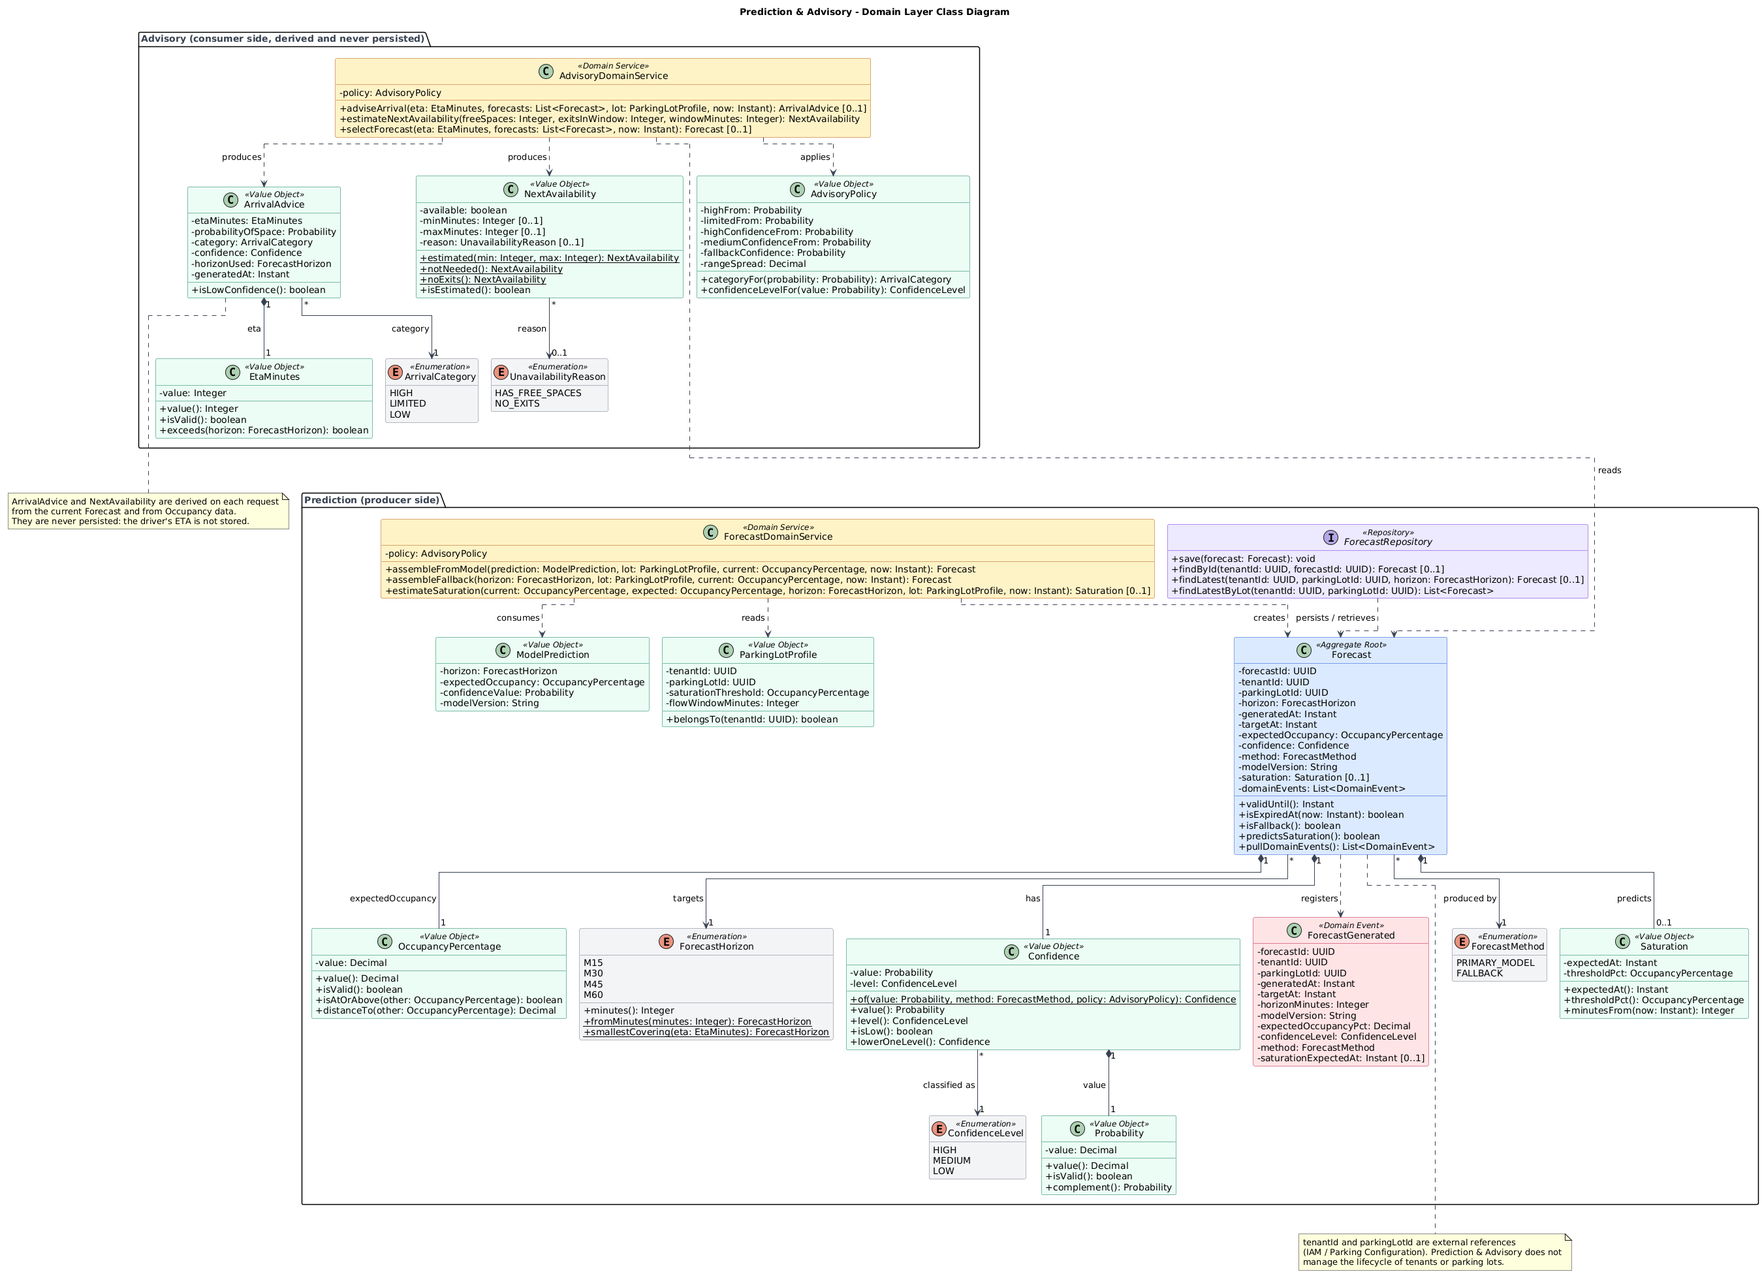
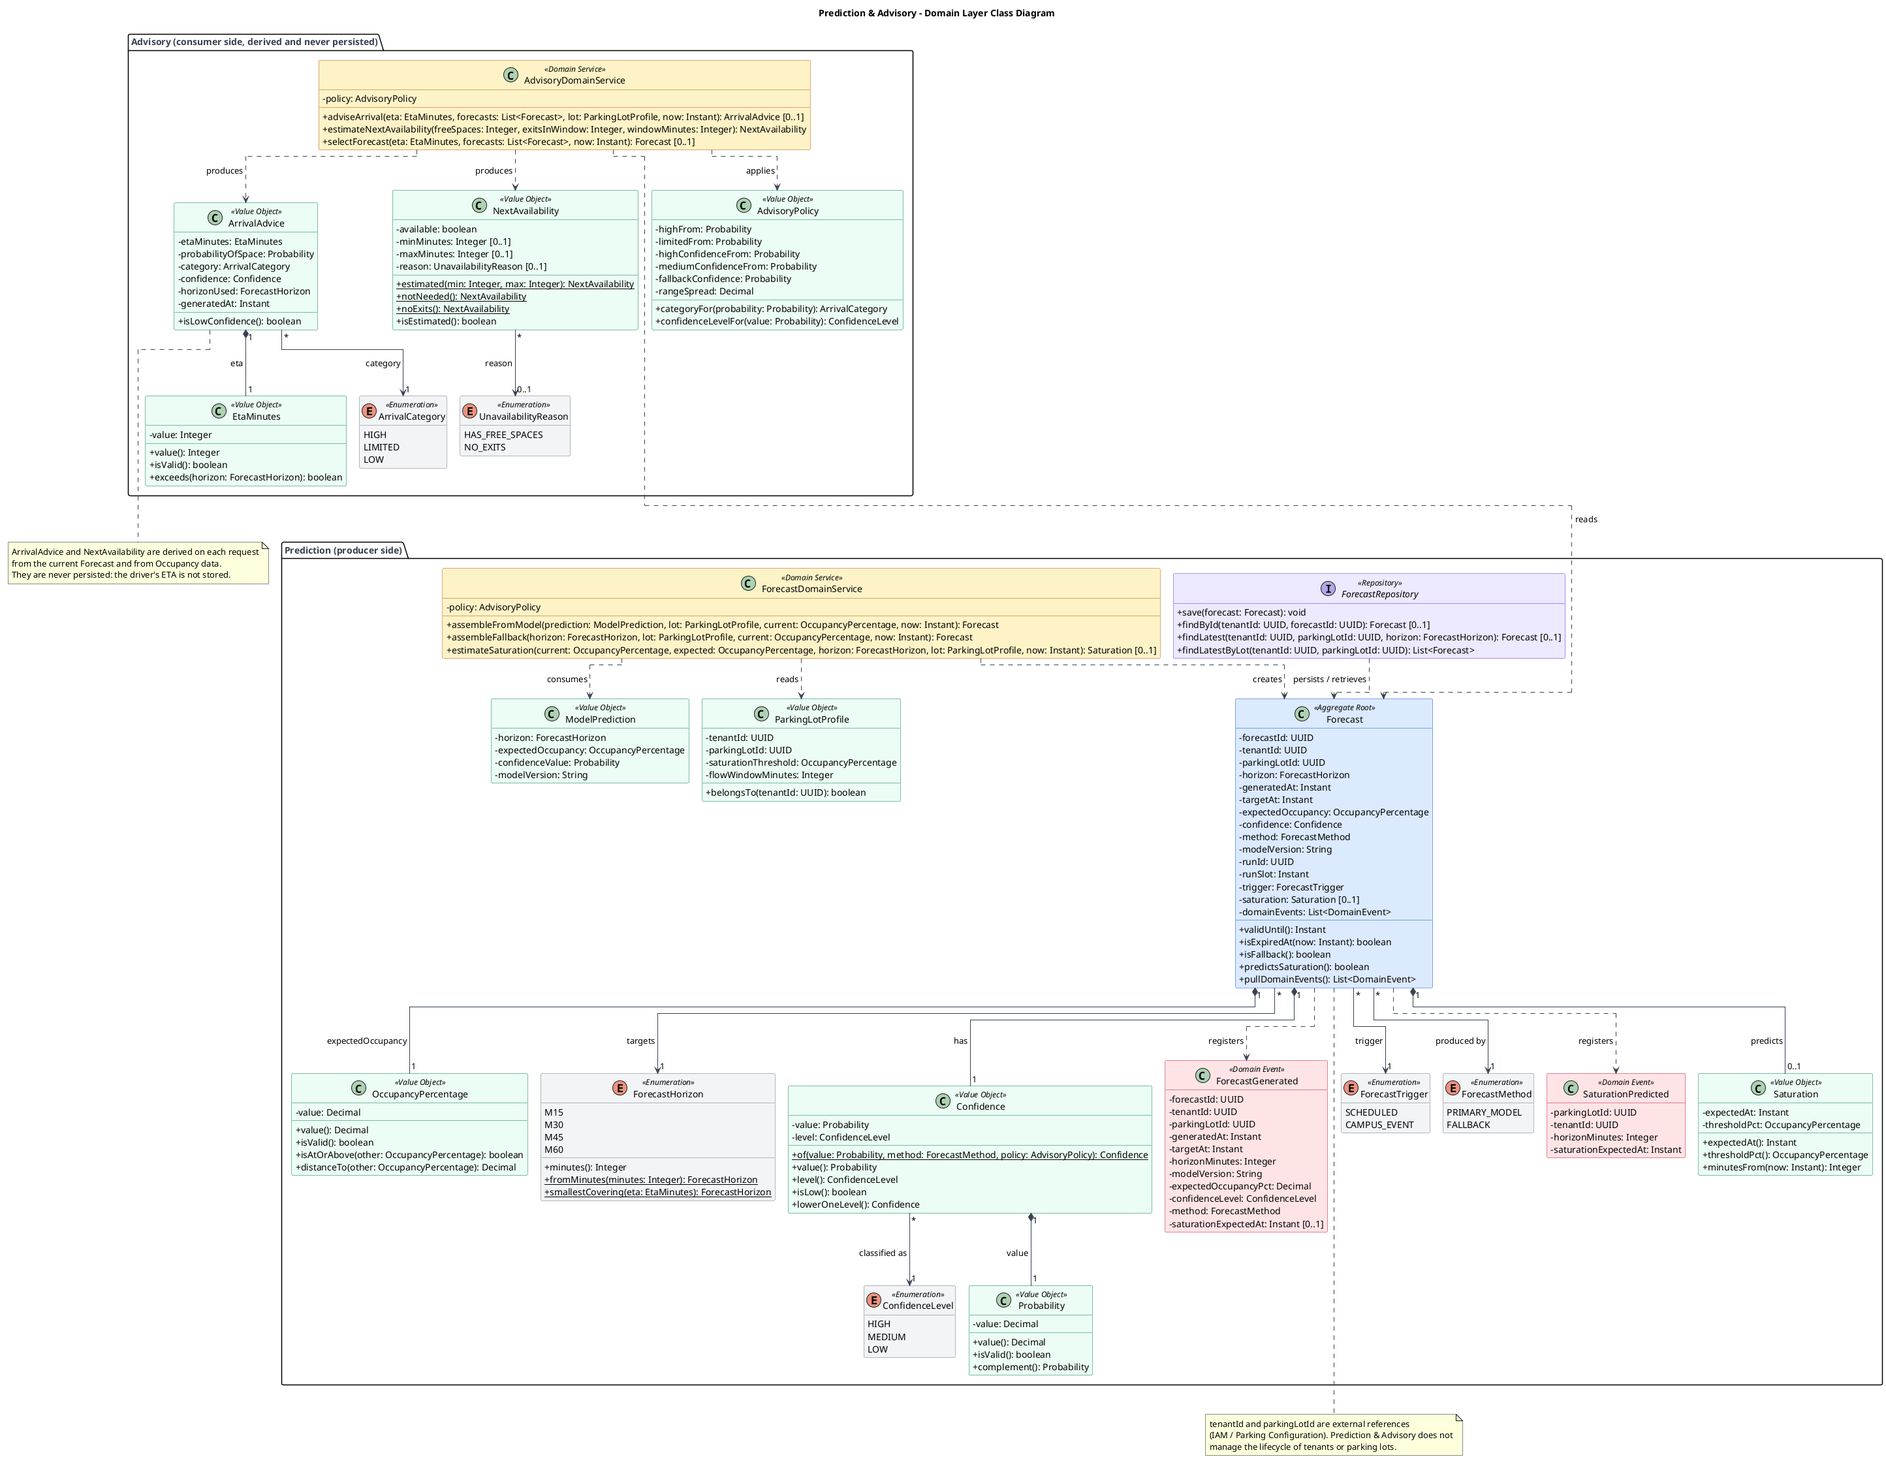
docs(chapter-05): embed the onnx model and define forecast runs

Changed region(s): [[0.0, 0.0, 1.0, 1.0], [0.9026, 0.375, 0.9337, 0.4062], [0.498, 0.6875, 0.5291, 0.7188]]

diff --git a/README.md b/README.md
@@ -5234,7 +5234,7 @@ Respuesta de `GET /api/v1/parking-lots/{lotId}/occupancy`:
 |currentOccupancy(parkingLotId: UUID)|OccupancySnapshotView?|Prediction & Advisory|Disponibilidad y porcentaje de ocupación actuales; vacío si no hay un dato consolidado vigente.|
 |freeSpaces(parkingLotId: UUID)|Integer|Prediction & Advisory|Espacios libres; los desconocidos no cuentan.|
 |exitsInWindow(parkingLotId: UUID, windowMinutes: Integer)|Integer|Prediction & Advisory|Salidas registradas en la ventana.|
-|recentSnapshots(parkingLotId: UUID, from: Instant, to: Instant)|`List<OccupancySnapshotView>`|Prediction & Advisory|Historial por minuto del intervalo (hasta 7 días).|
+|recentSnapshots(parkingLotId: UUID, from: Instant, to: Instant)|`List<OccupancySnapshotView>`|Prediction & Advisory|Historial por minuto del intervalo (hasta 8 semanas), del que sale la heurística de respaldo.|
 |availabilityOf(tenantId: UUID, parkingLotId: UUID)|OccupancyView|Módulo de composición|Disponibilidad por zona para la pantalla de inicio y la consola (TS02, TS17).|
 
 **Event Consumers**
@@ -5328,7 +5328,7 @@ La Infrastructure Layer implementa la persistencia, el read model, la difusión 
 |-|-|-|-|-|
 |SpaceOccupancyRepositoryAdapter, LotOccupancyRepositoryAdapter|Repository (implementación)|SpaceOccupancyRepository, LotOccupancyRepository|Spring Data JPA, PostgreSQL|Persisten los agregados con bloqueo optimista (`version`). `countByZone` es una consulta agrupada por zona y estado.|
 |JdbcVehiclePassageRepository|Repository (implementación)|VehiclePassageRepository|JDBC, PostgreSQL|`INSERT … ON CONFLICT DO NOTHING` sobre `vehicle_passages`; elimina los registros con más de 7 días.|
-|JdbcOccupancySnapshotRepository|Repository (implementación)|OccupancySnapshotRepository|JDBC, PostgreSQL|Guarda una foto por minuto; elimina las de más de 7 días.|
+|JdbcOccupancySnapshotRepository|Repository (implementación)|OccupancySnapshotRepository|JDBC, PostgreSQL|Guarda una foto por minuto; elimina las de más de 8 semanas, el período que usa la heurística de respaldo de Prediction & Advisory.|
 |RedisAvailabilityReadModel|Adapter (read model)|AvailabilityReadModel|Spring Data Redis, Redis Pub/Sub|Guarda la disponibilidad por estacionamiento y zona y el estado de los espacios. Publica cada cambio en un canal de Redis para que todas las réplicas lo entreguen a sus clientes conectados (QAS-04).|
 |StompRealtimeConfiguration|Configuración de mensajería|—|Spring WebSocket, STOMP|Expone el endpoint de suscripción y entrega a cada cliente los cambios recibidos del canal de Redis.|
 |ConfigurationLayoutReaderAdapter|Adapter (anti-corruption)|LayoutReader|Llamada en proceso a `ParkingConfigurationFacade`|Traduce el layout publicado al modelo de Occupancy.|
@@ -5340,7 +5340,7 @@ La Infrastructure Layer implementa la persistencia, el read model, la difusión 
 |-|-|
 |CQRS|Las escrituras actualizan PostgreSQL y luego el read model en Redis; las consultas de la aplicación y la consola leen Redis (DD-04). Si Redis no responde, la consulta se resuelve en PostgreSQL y se informa igual la antigüedad del dato (QAS-06).|
 |Frescura|La cadena detección confirmada, guardado, recálculo, Redis y notificación se hace en el mismo proceso, para cumplir 5 s o menos desde la confirmación hasta la aplicación y la consola (QAS-02).|
-|Propiedad de datos|Este contexto es el único que escribe en el esquema `occupancy` y en el read model. El historial de largo plazo pertenece a Analytics; aquí solo se conservan 7 días.|
+|Propiedad de datos|Este contexto es el único que escribe en el esquema `occupancy` y en el read model. El historial de largo plazo pertenece a Analytics; aquí solo se conservan las fotos por minuto de 8 semanas y los pasos de 7 días. Prediction & Advisory no consulta a Analytics, porque Analytics ya depende de sus eventos y la consulta crearía un ciclo entre módulos que Spring Modulith rechaza.|
 |Multi-tenancy|`tenant_id` se guarda en todas las tablas, y las claves de Redis incluyen la institución. Las consultas filtran por el tenant del token.|
 |Tecnología|Módulo del monolito modular en Java 25 y Spring Boot 4, con el esquema `occupancy` de PostgreSQL y Redis, según DD-01 y DD-04.|
 
@@ -5481,7 +5481,7 @@ La siguiente tabla resume las clases e interfaces principales requeridas por Pre
 | ForecastRepositoryAdapter | Infrastructure | Implementa la persistencia de pronósticos sobre la tabla `prediction.forecasts`. | Persistence dependency | save(), findById(), findLatest(), findLatestByLot() |
 | OccupancyReaderAdapter | Infrastructure | Capa anticorrupción que consulta la fachada de Occupancy. | Integration dependency | currentOccupancy(), freeSpaces(), exitsInWindow(), recentSnapshots() |
 | ParkingLotSettingsReaderAdapter | Infrastructure | Encapsula el acceso a la configuración del estacionamiento. | Integration dependency | profileOf(), activeLots(), calendarEventsAround() |
-| PredictionModelClient | Infrastructure | Encapsula la comunicación con el modelo de predicción. | Model dependency, timeout | predict() |
+| OnnxModelRunner | Infrastructure | Ejecuta en el proceso el modelo ONNX vigente y traduce su salida a `ModelPrediction`. | ONNX Runtime (Java) | predict() |
 | ForecastEventPublisherAdapter | Infrastructure | Encapsula el mecanismo técnico de publicación de `ForecastGenerated`. | Messaging dependency | publish() |
 
 
@@ -5511,6 +5511,9 @@ Attributes
 |confidence|Confidence|Private|Valor y nivel de confianza del pronóstico.|
 |method|ForecastMethod|Private|Indica si se generó con el modelo principal o con la heurística de respaldo.|
 |modelVersion|String|Private|Versión del modelo o identificador de la política de respaldo.|
+|runId|UUID|Private|Corrida de generación a la que pertenece; los cuatro horizontes de una corrida comparten el mismo valor.|
+|runSlot|Instant|Private|Inicio de la franja de 5 minutos de la corrida. Junto con el disparador, impide que dos réplicas generen dos veces la misma corrida programada.|
+|trigger|ForecastTrigger|Private|SCHEDULED si la generó el programador; CAMPUS_EVENT si la generó un cambio en el calendario.|
 |saturation|Saturation?|Private|Momento esperado de saturación, cuando el pronóstico lo anticipa.|
 |domainEvents|`List<DomainEvent>`|Private|Eventos de dominio pendientes de publicación.|
 
@@ -5768,6 +5771,7 @@ Los valores iniciales de `AdvisoryPolicy` se calibran con los datos del piloto (
 |-|-|-|-|
 |ForecastHorizon|Enumeration|M15, M30, M45, M60|Horizontes admitidos para un pronóstico.|
 |ForecastMethod|Enumeration|PRIMARY_MODEL, FALLBACK|Método con el que se generó un pronóstico.|
+|ForecastTrigger|Enumeration|SCHEDULED, CAMPUS_EVENT|Qué originó la corrida de generación.|
 |ConfidenceLevel|Enumeration|HIGH, MEDIUM, LOW|Nivel cualitativo de confianza.|
 |ArrivalCategory|Enumeration|HIGH, LIMITED, LOW|Categoría de la asesoría de llegada: HIGH (es probable encontrar espacio), LIMITED (la disponibilidad será limitada), LOW (es poco probable).|
 |UnavailabilityReason|Enumeration|HAS_FREE_SPACES, NO_EXITS|Motivo por el que no se entrega un rango: HAS_FREE_SPACES (hay espacios libres) o NO_EXITS (lleno y sin salidas recientes).|
@@ -5842,7 +5846,7 @@ Methods
 3. La ocupación esperada está entre 0 % y 100 %; el valor de confianza, entre 0 y 1.
 4. Todo pronóstico conserva su método y la versión del modelo, también cuando se generó con el respaldo.
 5. Un pronóstico FALLBACK tiene siempre nivel de confianza LOW.
-6. Si el modelo no está disponible, no responde a tiempo, omite un horizonte o no hay historial suficiente, se genera el pronóstico con el método FALLBACK, que asume que la ocupación esperada es la actual.
+6. Si no hay un modelo cargado, la inferencia falla, omite un horizonte o no hay historial suficiente, se genera el pronóstico con el método FALLBACK: la ocupación esperada es el promedio histórico del mismo día de la semana y la misma franja de 15 minutos en las últimas 8 semanas (DD-05). Si hay menos de dos semanas de historial para esa franja, se usa la ocupación actual. En ambos casos la confianza es LOW.
 7. Si no existe una lectura de ocupación utilizable, no se genera ningún pronóstico; el contexto no inventa un valor.
 8. Un pronóstico es vigente hasta su `targetAt` (`validUntil`). Uno vencido se devuelve marcado, junto con la hora del servidor, y no se usa para la asesoría.
 9. Un horizonte para el que nunca se generó un pronóstico se informa como faltante.
@@ -5955,15 +5959,15 @@ Methods
 
 |Nombre|Categoría|Descripción|
 |-|-|-|
-|ForecastScheduler|Scheduler|Dispara la generación periódica de pronósticos.|
+|ForecastScheduler|Scheduler|Dispara la generación de pronósticos cada 5 minutos.|
 
 Methods
 
 |Nombre|Tipo de retorno|Visibilidad|Descripción|
 |-|-|-|-|
-|generateForecasts()|Void|Public|Envía un `GenerateForecastsCommand` por estacionamiento activo.|
+|generateForecasts()|Void|Public|Envía un `GenerateForecastsCommand` por estacionamiento activo, con el inicio de la franja de 5 minutos como `runSlot` y el disparador SCHEDULED.|
 
-Cada estacionamiento se procesa de forma aislada: un fallo se registra y no detiene a los demás. Con varias instancias, la ejecución se protege con un bloqueo.
+Cada estacionamiento se procesa de forma aislada: un fallo se registra y no detiene a los demás. Con varias réplicas, la ejecución se protege con un bloqueo en la base de datos (ShedLock), y la restricción única por estacionamiento, horizonte y `runSlot` impide duplicar una corrida aunque el bloqueo falle.
 
 **Consumer 1: CampusEventListener**
 
@@ -5983,7 +5987,7 @@ Methods
 |Nombre|Categoría|Atributos|Descripción|
 |-|-|-|-|
 |ArrivalAdviceRequest|Request DTO|lotId, etaMinutes|Entrada de la asesoría; no admite otros campos.|
-|ForecastResponse|Response DTO|lotId, horizon, expectedOccupancyPct, confidence, method, generatedAt, validUntil, saturation, serverTime|Pronóstico entregado al cliente.|
+|ForecastResponse|Response DTO|lotId, horizon, expectedOccupancyPct, confidence, method, modelVersion, generatedAt, validUntil, saturation, serverTime|Pronóstico entregado al cliente.|
 |ArrivalAdviceResponse|Response DTO|etaMinutes, probabilityOfSpace, category, confidence, horizonUsed, generatedAt, serverTime|Asesoría entregada al cliente.|
 |NextAvailabilityResponse|Response DTO|available, minMinutes, maxMinutes, reason, serverTime|Próxima disponibilidad entregada al cliente.|
 
@@ -6042,8 +6046,8 @@ La Application Layer coordina los casos de uso de Prediction & Advisory: orquest
 
 1. Obtiene el `ParkingLotProfile` y la ocupación actual; sin lectura utilizable, termina sin generar pronósticos.
 2. Obtiene muestras recientes y eventos de calendario, y pide las predicciones de los cuatro horizontes a `PredictionModelPort`.
-3. `ForecastDomainService` construye un `Forecast` PRIMARY_MODEL por cada predicción válida y uno FALLBACK por cada horizonte sin predicción (modelo caído, tiempo agotado, historial insuficiente o respuesta incompleta).
-4. Persiste los pronósticos y, ya persistidos, publica `ForecastGenerated` y, si se prevé saturación, `SaturationPredicted`.
+3. `ForecastDomainService` construye un `Forecast` PRIMARY_MODEL por cada predicción válida y uno FALLBACK por cada horizonte sin predicción (modelo caído, tiempo agotado, historial insuficiente o un horizonte sin resultado). Todos los pronósticos de la corrida comparten su `runId`.
+4. Persiste los pronósticos y, en la misma transacción, registra en Spring Modulith `ForecastGenerated` y, si se prevé saturación, `SaturationPredicted`.
 
 `CampusEventChangedEventHandler`:
 
@@ -6084,7 +6088,7 @@ La Infrastructure Layer contiene las implementaciones técnicas que almacenan pr
 |ForecastRepositoryAdapter|Repository (implementación)|ForecastRepository|Spring Data JPA, PostgreSQL|Guarda y recupera pronósticos en la tabla `forecasts`.|
 |OccupancyReaderAdapter|Adapter (anti-corruption)|OccupancyReader|Llamada en proceso a la fachada de Occupancy|Lee los datos de ocupación.|
 |ParkingLotSettingsReaderAdapter|Adapter (anti-corruption)|ParkingLotSettingsReader|Llamada en proceso a la fachada de Parking Configuration (Open Host Service)|Lee la configuración del estacionamiento.|
-|PredictionModelClient|Adapter (cliente del modelo)|PredictionModelPort|Cliente HTTP, Resilience4j|Invoca al modelo y traduce su respuesta a `ModelPrediction`.|
+|OnnxModelRunner|Adapter (modelo embebido)|PredictionModelPort|ONNX Runtime para Java|Carga el archivo `model-vN.onnx` más reciente que publicó el entrenamiento, arma las variables de entrada en el orden que declara su metadato y traduce la salida a `ModelPrediction`. Si no hay modelo cargado o la inferencia falla, devuelve un resultado vacío y el handler aplica el respaldo. Cuando aparece una versión nueva, la carga sin reiniciar el backend.|
 |ForecastEventPublisherAdapter|Adapter (eventos)|ForecastEventPublisher|Eventos de aplicación de Spring, registro de publicación de Spring Modulith (outbox)|Publica `ForecastGenerated` y `SaturationPredicted` tras confirmar la transacción.|
 
 
@@ -6096,6 +6100,22 @@ La Infrastructure Layer contiene las implementaciones técnicas que almacenan pr
 |Persistencia|La asesoría y la próxima disponibilidad no se persisten: el servidor no conserva el ETA ni el trayecto del conductor.|
 |Multi-tenancy|`tenant_id` se almacena en `forecasts` como referencia lógica a IAM, sin clave foránea, y se toma siempre del usuario autenticado, nunca de un parámetro.|
 |Tecnología|Módulo del monolito modular en Java 25 y Spring Boot 4, con el esquema `prediction` de PostgreSQL, según DD-01. Domain y Application Layer no dependen de ella.|
+
+**Ciclo de vida del modelo**
+
+El modelo no es un servicio web: se entrena fuera del backend y se ejecuta dentro de él (DD-10).
+
+|Etapa|Decisión|
+|-|-|
+|Datos|Datos públicos reales de sensores por espacio de la ciudad de Melbourne, con varios años de llegadas y salidas, reproducidos por el simulador IoT sobre un campus simulado al que se agregan eventos del campus declarados como sintéticos. Con un piloto real, se usaría el historial del propio campus.|
+|Variables|Estacionamiento, horizonte, ocupación actual y de hace 15, 30 y 60 minutos, ingresos y salidas en la ventana de flujo, día de la semana, franja de 15 minutos, tipo de período académico, impacto del evento del campus y minutos hasta su inicio. Las variables categóricas se convierten en números, porque el conversor a ONNX no admite divisiones categóricas nativas.|
+|Entrenamiento|Un `HistGradientBoostingRegressor` de scikit-learn por horizonte, entrenado cada semana por un trabajo programado en Python.|
+|Validación|Validación temporal: se entrena con un año y se evalúa con el siguiente. El error absoluto medio (MAE) de cada horizonte se guarda con la versión.|
+|Confianza|El valor de confianza de cada horizonte es `1 − MAE / 25`, acotado entre 0 y 1; `AdvisoryPolicy` lo convierte en HIGH, MEDIUM o LOW.|
+|Publicación|El trabajo exporta el modelo con `skl2onnx` como `model-vN.onnx`, junto con un metadato que declara la versión, la fecha, el orden de las variables y el MAE por horizonte. `OnnxModelRunner` carga la versión más reciente sin reiniciar el backend.|
+|Respaldo|Sin modelo cargado o ante un error de inferencia, se aplica la regla 6 con confianza LOW.|
+
+Cuando una corrida termina, el backend publica en `/topic/parking-lots/{lotId}/forecasts` un aviso de que hay pronósticos nuevos. La app vuelve a pedir la asesoría de llegada con el último tiempo estimado, descontando los minutos transcurridos, sin volver a calcular la ruta.
 
 ### 5.5.6. Bounded Context Software Architecture Component Level Diagrams
 
@@ -6127,7 +6147,7 @@ El diagrama descompone el módulo Prediction & Advisory dentro del contenedor Qu
 | Forecast Repository Adapter | Infrastructure | Guarda y recupera pronósticos por institución. | Spring Data JPA | ForecastRepositoryAdapter |
 | Occupancy Reader Adapter | Infrastructure | Lee datos de Occupancy. | Adaptador Java (anti-corruption) | OccupancyReaderAdapter |
 | Parking Lot Settings Adapter | Infrastructure | Lee la configuración de Parking Configuration. | Adaptador Java (anti-corruption) | ParkingLotSettingsReaderAdapter |
-| Prediction Model Client | Infrastructure | Invoca al modelo con timeout y cortacircuitos. | Cliente HTTP, Resilience4j | PredictionModelClient |
+| ONNX Model Runner | Infrastructure | Ejecuta en el proceso el modelo ONNX vigente. | ONNX Runtime (Java) | OnnxModelRunner |
 | Forecast Event Publisher Adapter | Infrastructure | Publica `ForecastGenerated` y `SaturationPredicted` tras confirmar la transacción. | Eventos de aplicación de Spring | ForecastEventPublisherAdapter |
 
 Prediction & Advisory Component Level Diagram: **PredictionAdvisoryComponentLevelDiagram**
@@ -6172,6 +6192,9 @@ Prediction & Advisory es dueño de una sola tabla, `forecasts`, en el esquema `p
 |parking_lot_id|UUID|No|parkingLotId|Estacionamiento; referencia lógica a Parking Configuration, sin clave foránea (CON-02).|
 |horizon_min|SMALLINT|No|horizon|Horizonte en minutos: 15, 30, 45 o 60.|
 |generated_at|TIMESTAMPTZ|No|generatedAt|Momento en que se generó.|
+|run_id|UUID|No|runId|Corrida de generación.|
+|run_slot|TIMESTAMPTZ|No|runSlot|Inicio de la franja de 5 minutos de la corrida.|
+|trigger|VARCHAR(12)|No|trigger|SCHEDULED o CAMPUS_EVENT (restricción CHECK).|
 |target_at|TIMESTAMPTZ|No|targetAt|Momento objetivo; también es `validUntil` (no se almacena).|
 |expected_occupancy_pct|NUMERIC(5,2)|No|expectedOccupancy|Ocupación esperada, entre 0 y 100.|
 |confidence|NUMERIC(4,3)|No|confidence.value|Valor de confianza, entre 0 y 1.|
@@ -6184,7 +6207,9 @@ Prediction & Advisory es dueño de una sola tabla, `forecasts`, en el esquema `p
 
 |Elemento|Definición|Regla que respalda|
 |-|-|-|
-|`uq_forecasts_lot_horizon_time`|UNIQUE (parking_lot_id, horizon_min, generated_at)|Evita duplicados; acelera la búsqueda del más reciente.|
+|`uq_forecasts_lot_horizon_run`|UNIQUE (parking_lot_id, horizon_min, run_id)|Un pronóstico por horizonte en cada corrida.|
+|`uq_forecasts_scheduled_slot`|UNIQUE (parking_lot_id, horizon_min, run_slot) WHERE trigger = 'SCHEDULED'|Impide que dos réplicas generen la misma corrida programada.|
+|`idx_forecasts_lot_horizon_generated`|INDEX (parking_lot_id, horizon_min, generated_at DESC)|Acelera la búsqueda del pronóstico más reciente. Un proceso diario elimina los pronósticos con más de 7 días; Analytics conserva su propia copia para medir la precisión.|
 |`idx_forecasts_tenant_lot_target`|INDEX (tenant_id, parking_lot_id, target_at)|Consultas por institución, estacionamiento y momento objetivo.|
 |`chk_forecasts_horizon`|horizon_min IN (15, 30, 45, 60)|Regla 2.|
 |`chk_forecasts_expected`|expected_occupancy_pct BETWEEN 0 AND 100|Regla 3.|
